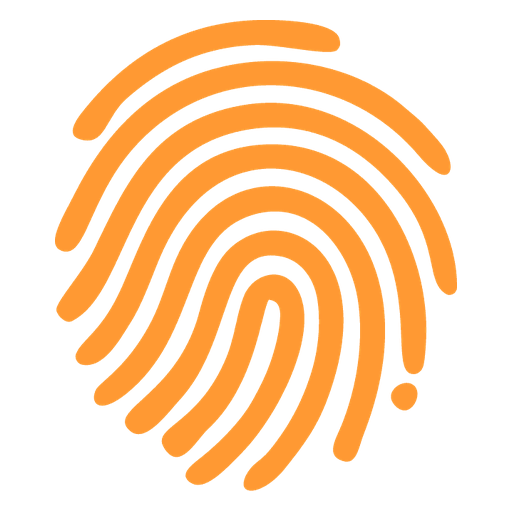
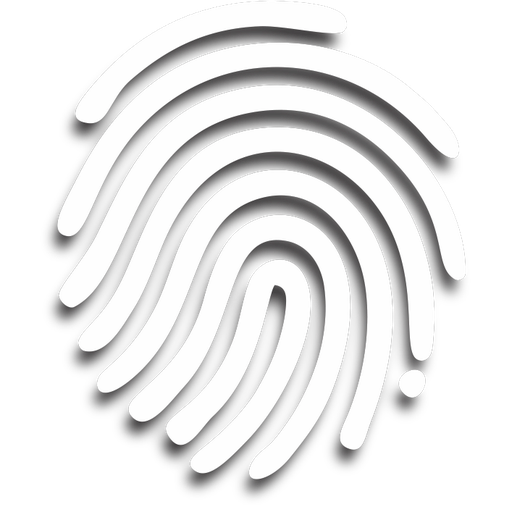
Digital branca no modo escuro (ícone da aba e menu recolhido)
Claude-Session: https://claude.ai/code/session_015nYxhw8GD7RKdryQPYauB2

diff --git a/app/templates/painel_base.html b/app/templates/painel_base.html
@@ -8,7 +8,7 @@
     {# Celular e tablet: o menu abre como uma gaveta pela esquerda (só no painel do gestor e no Master). #}
     <button type="button" class="abrir-gaveta" id="abrir-gaveta" aria-controls="menu-gaveta" aria-expanded="false" aria-label="{{ _('Abrir o menu') }}">
       <svg viewBox="0 0 24 24" fill="none" stroke="currentColor" stroke-width="2" stroke-linecap="round" aria-hidden="true"><path d="M4 7h16M4 12h16M4 17h10"/></svg></button>
-    <a class="marca" href="/painel" aria-label="{{ app_nome }}"><img class="marca-icone" src="/static/icone-512.png?v=4" alt="">{{ logo_nome("na-lateral") }}</a>
+    <a class="marca" href="/painel" aria-label="{{ app_nome }}"><img class="marca-icone mi-claro" src="/static/icone-512.png?v=4" alt=""><img class="marca-icone mi-escuro" src="/static/icone-escuro-512.png?v=2" alt="">{{ logo_nome("na-lateral") }}</a>
     <button type="button" class="recolher-lateral" id="recolher-lateral" onclick="recolherLateral()" title="{{ _('Recolher ou expandir o menu') }}" aria-label="{{ _('Recolher ou expandir o menu') }}">
       <svg viewBox="0 0 24 24" fill="none" stroke="currentColor" stroke-width="2" stroke-linecap="round" stroke-linejoin="round" aria-hidden="true"><rect x="3.5" y="4" width="17" height="16" rx="2.5"/><path d="M9.5 4v16"/><path class="seta" d="M15.5 10l-2 2 2 2"/></svg>
     </button>

diff --git a/app/templates/base.html b/app/templates/base.html
@@ -8,7 +8,7 @@
 <title>{% block titulo %}{{ app_nome }}{% endblock %}</title>
 <link rel="manifest" href="/manifest.webmanifest">
 <link rel="icon" href="/static/favicon.png?v=4" type="image/png" media="(prefers-color-scheme: light)">
-<link rel="icon" href="/static/favicon-escuro.png?v=1" type="image/png" media="(prefers-color-scheme: dark)">
+<link rel="icon" href="/static/favicon-escuro.png?v=2" type="image/png" media="(prefers-color-scheme: dark)">
 <link rel="apple-touch-icon" href="/static/icone-apple.png?v=4">
 <meta name="apple-mobile-web-app-capable" content="yes">
 <meta name="apple-mobile-web-app-title" content="{{ plat.nome_curto or app_nome }}">
@@ -35,7 +35,7 @@
 })();
 </script>
 <link rel="stylesheet" href="/static/style.css?v=55">
-<link rel="stylesheet" href="/static/tema.css?v=23">
+<link rel="stylesheet" href="/static/tema.css?v=24">
 <script>window.T = {{ textos_js()|tojson }}; window.t = function (s) { return window.T[s] || s; };</script>
 <script>
 /* Comportamento de app nativo: bloqueia o zoom de pinça e o de duplo toque (reforço para o Safari do iPhone). */

diff --git a/app/templates/vendas.html b/app/templates/vendas.html
@@ -9,10 +9,10 @@
 {% if previa %}<meta name="robots" content="noindex">{% endif %}
 <meta name="theme-color" content="#f5f7fc">
 <link rel="icon" href="/static/favicon.png?v=4" type="image/png" media="(prefers-color-scheme: light)">
-<link rel="icon" href="/static/favicon-escuro.png?v=1" type="image/png" media="(prefers-color-scheme: dark)">
+<link rel="icon" href="/static/favicon-escuro.png?v=2" type="image/png" media="(prefers-color-scheme: dark)">
 <link rel="stylesheet" href="/static/style.css?v=55">
 <link rel="stylesheet" href="/static/vendas.css?v=2">
-<link rel="stylesheet" href="/static/tema.css?v=23">
+<link rel="stylesheet" href="/static/tema.css?v=24">
 <link rel="preconnect" href="https://fonts.googleapis.com">
 <link rel="preconnect" href="https://fonts.gstatic.com" crossorigin>
 <link rel="stylesheet" href="https://fonts.googleapis.com/css2?family=Inter:wght@400;500;600;700;800&family=Plus+Jakarta+Sans:wght@700;800&display=swap">

diff --git a/app/static/tema.css b/app/static/tema.css
@@ -787,3 +787,12 @@ td.col-func .etiqueta { font-size: max(9px, calc(.72rem - 3px)); }
 .colab .colab-txt, .colab .colab-txt strong { font-size: calc(15.5px - 5px); }
 .colab .colab-txt small { font-size: max(9px, calc(.76rem - 5px)); }
 .colab .colab-txt .mini { font-size: max(8.5px, calc(.7rem - 3px)); }
+
+/* Digital do menu recolhido: branca no tema escuro */
+:root[data-lateral="recolhida"] .topo .marca .marca-icone.mi-escuro { display: none; }
+:root[data-tema="escuro"][data-lateral="recolhida"] .topo .marca .marca-icone.mi-claro { display: none; }
+:root[data-tema="escuro"][data-lateral="recolhida"] .topo .marca .marca-icone.mi-escuro { display: block; }
+@media (prefers-color-scheme: dark) {
+  :root:not([data-tema="claro"])[data-lateral="recolhida"] .topo .marca .marca-icone.mi-claro { display: none; }
+  :root:not([data-tema="claro"])[data-lateral="recolhida"] .topo .marca .marca-icone.mi-escuro { display: block; }
+}
